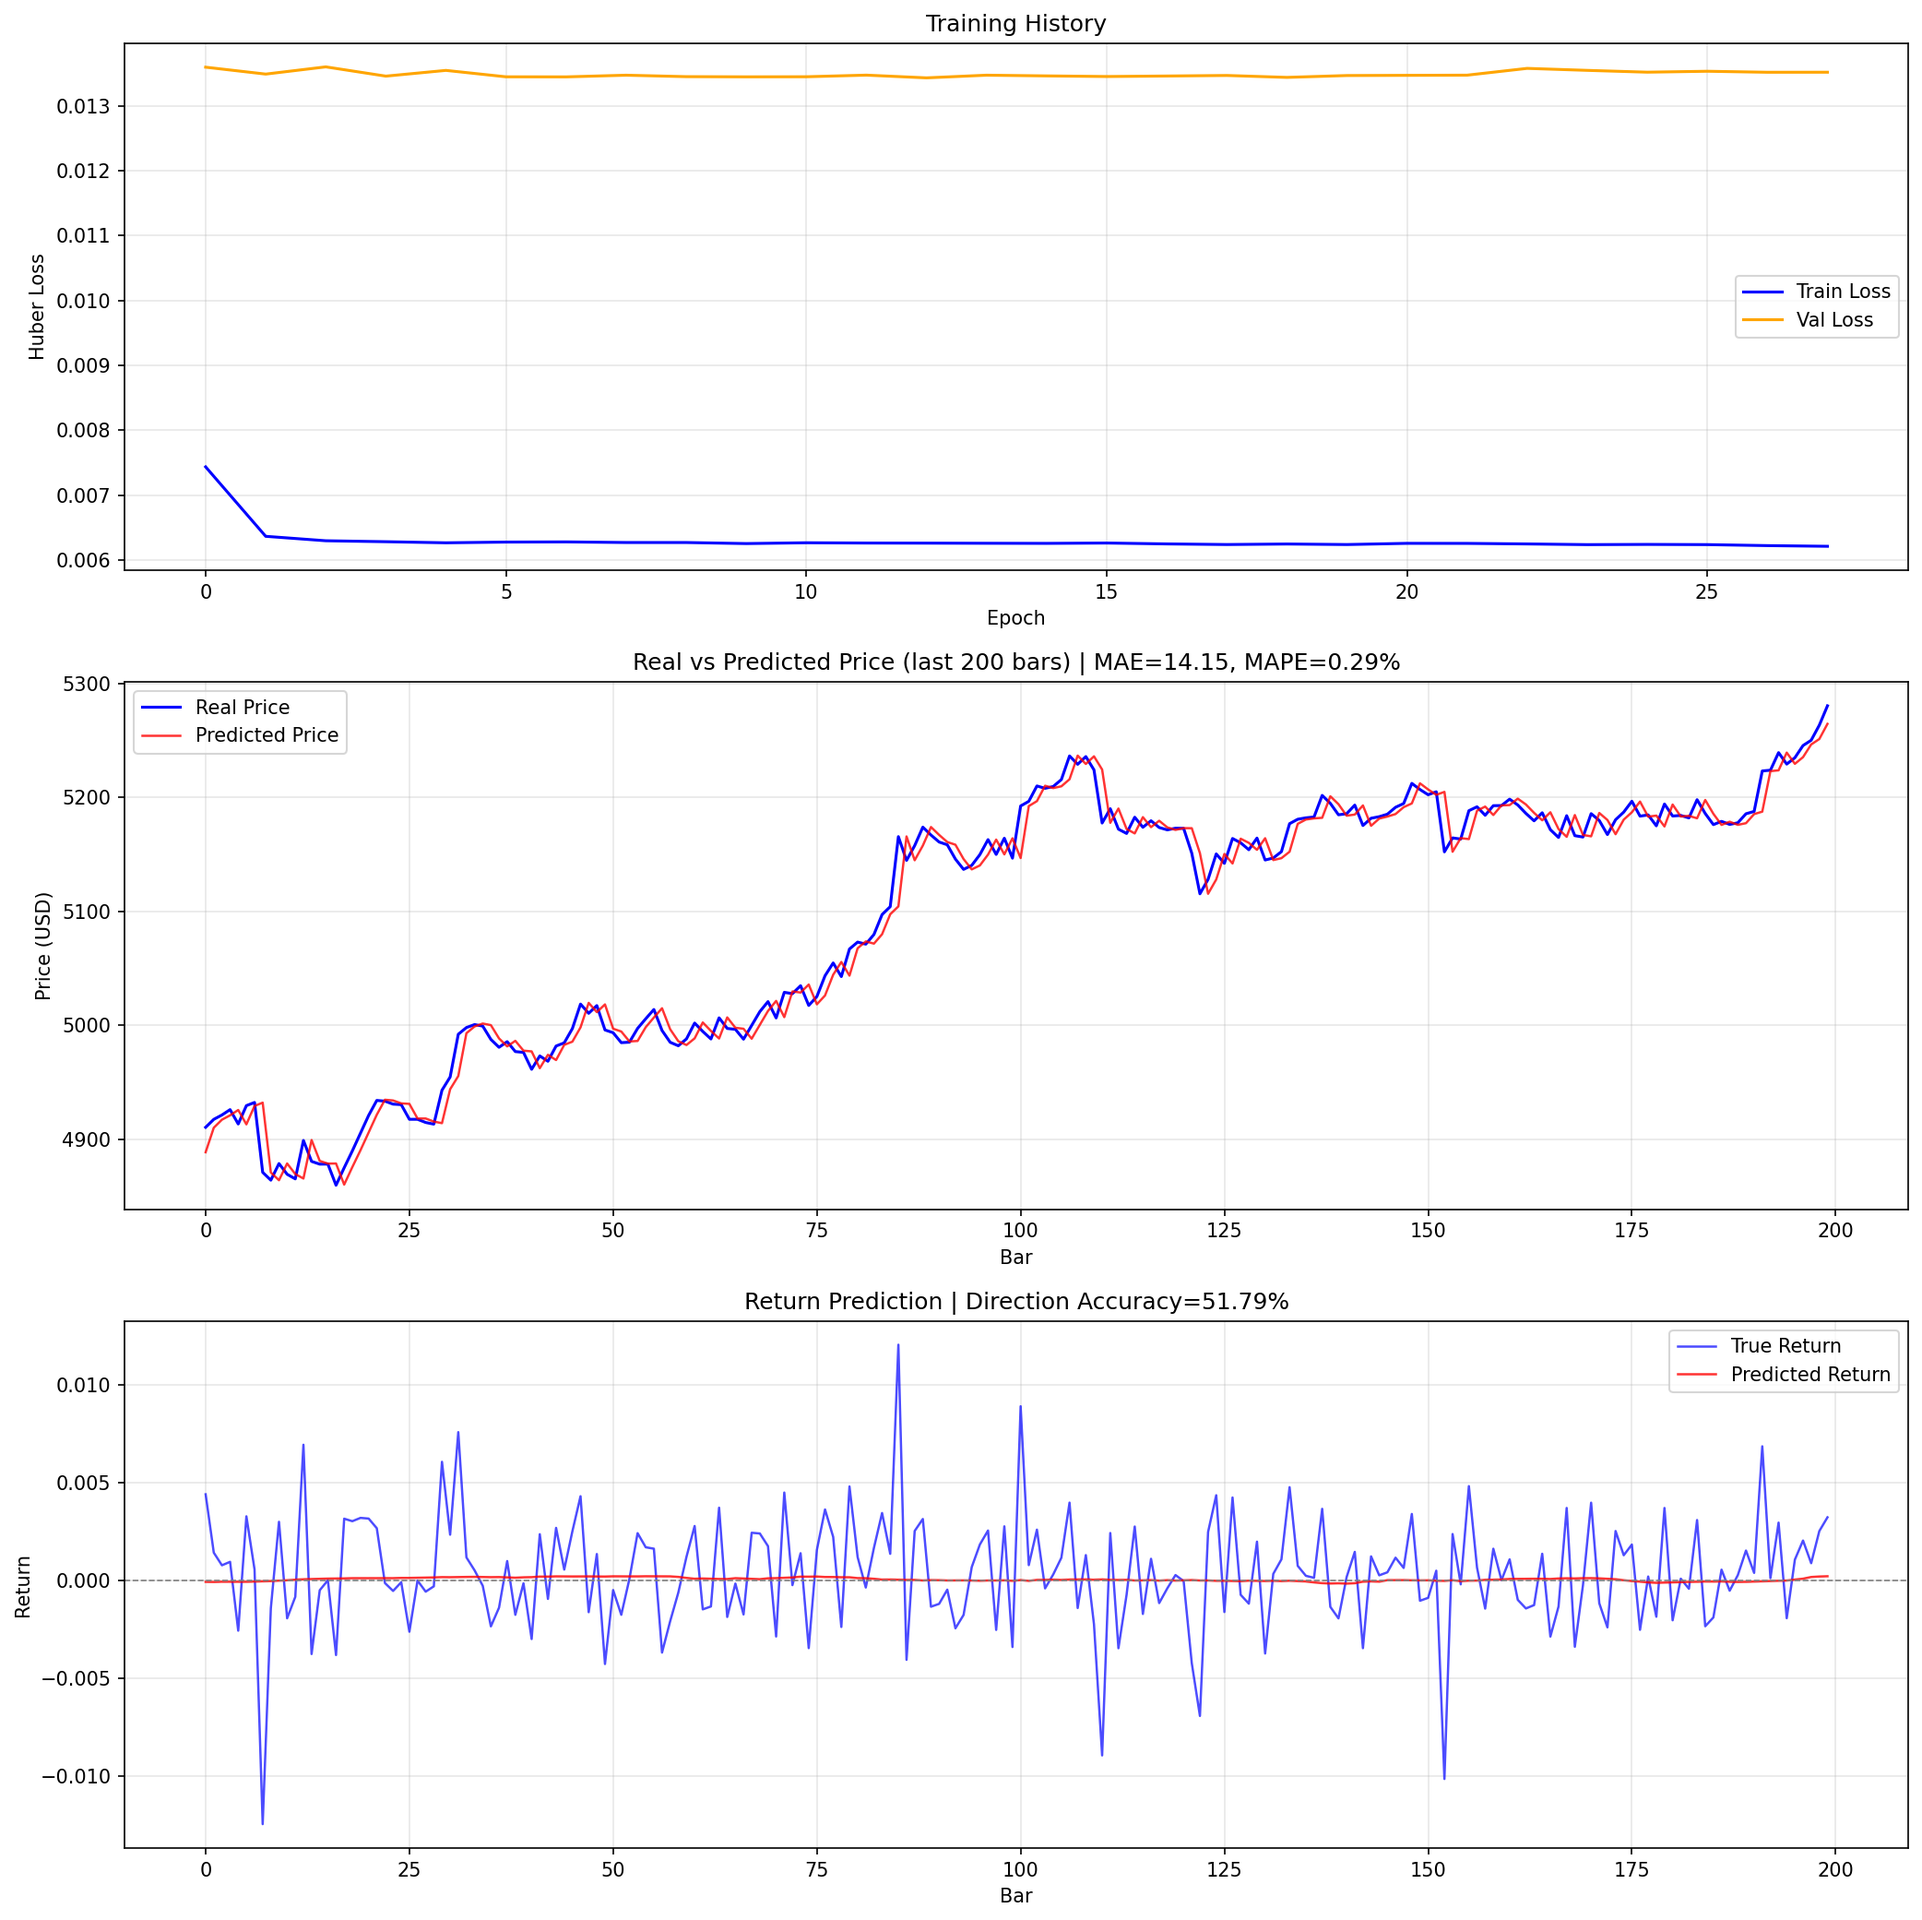
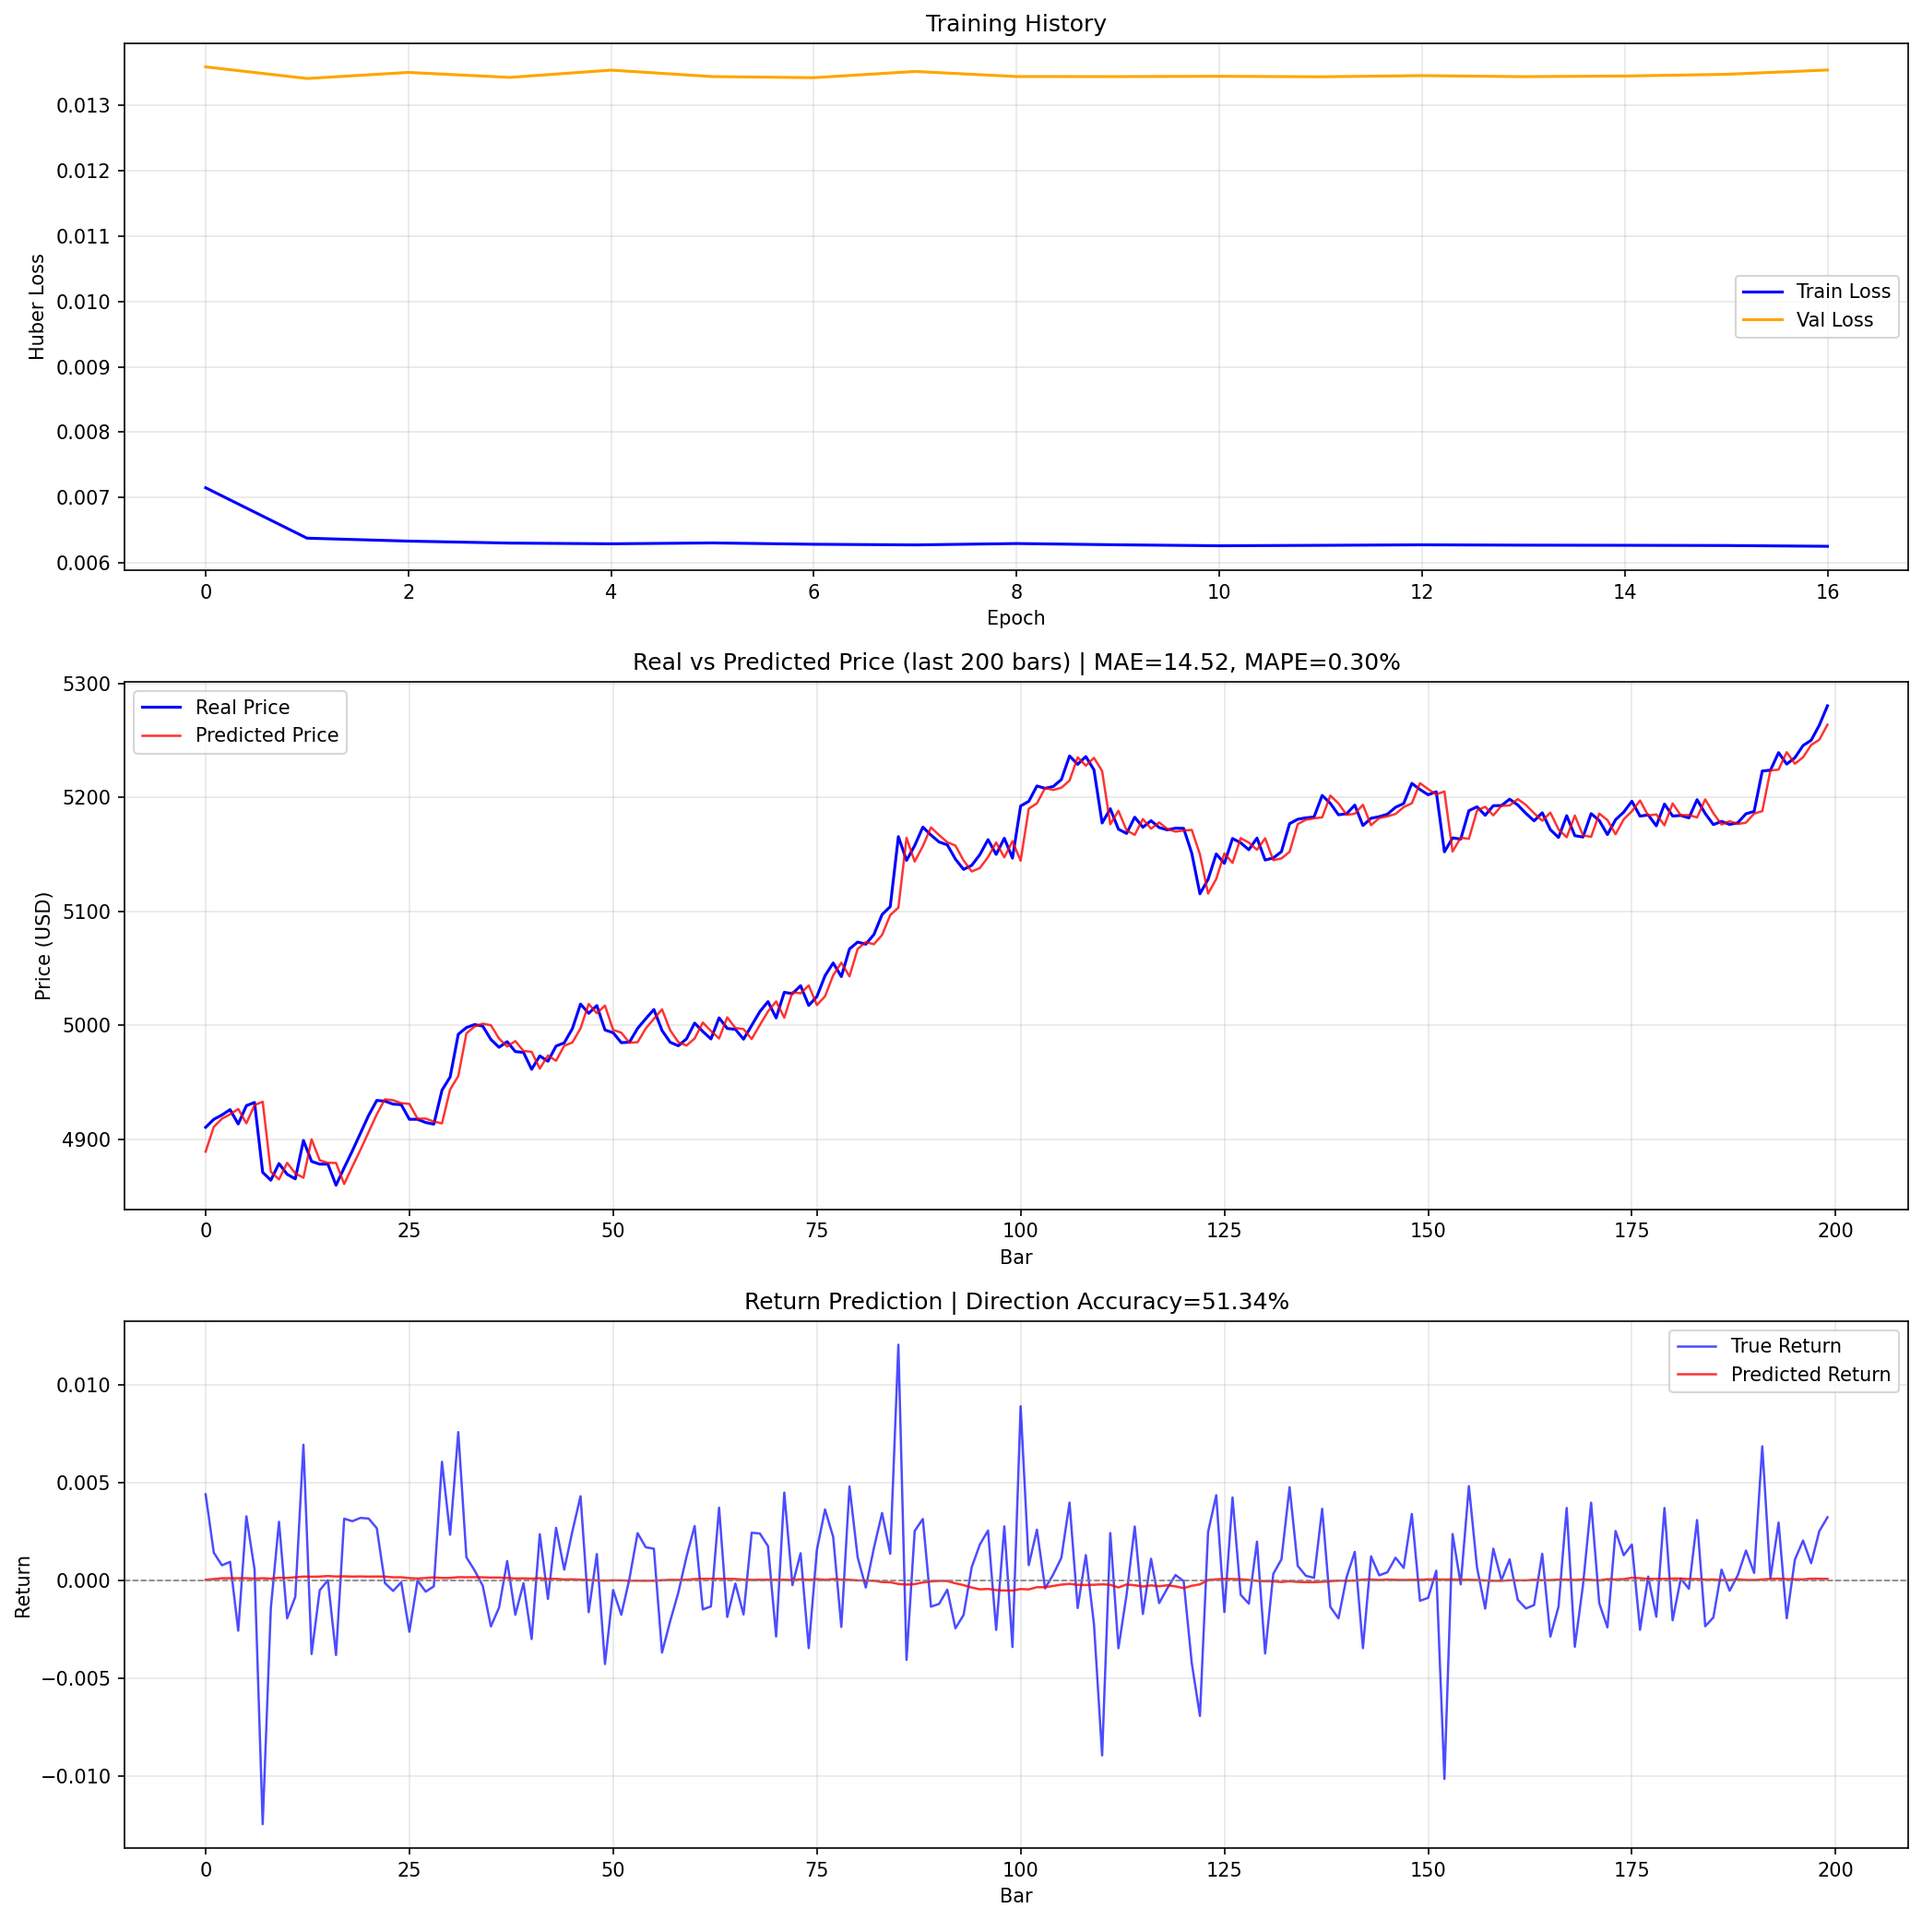
Done suda selesai (kyknya)

diff --git a/LSTM_XAUUSD.py b/LSTM_XAUUSD.py
@@ -30,12 +30,9 @@ df.ta.ema(length=50, append=True)
 df.ta.rsi(length=14, append=True)
 df.ta.atr(length=14, append=True)
 df.ta.macd(append=True)       # tambahan: MACD
-
-# Bollinger Bands - manual append agar nama kolom konsisten
-bb = df.ta.bbands(length=20)
-df['BBL_20_2.0'] = bb.iloc[:, 0] # Lower Band
-df['BBM_20_2.0'] = bb.iloc[:, 1] # Middle Band
-df['BBU_20_2.0'] = bb.iloc[:, 2] # Upper Band
+bb_cols = df.ta.bbands(length=20, append=True)  # tambahan: Bollinger Bands
+bbu_col = bb_cols.filter(like='BBU').columns[0]
+bbl_col = bb_cols.filter(like='BBL').columns[0]
 
 psar = df.ta.psar()
 df['PSAR'] = psar.iloc[:, 0].fillna(psar.iloc[:, 1])
@@ -81,12 +78,12 @@ df = fair_value_gap(df)
 # 1. Return & log return (stasioner, lebih mudah dipelajari LSTM)
 df['Return'] = df['Close'].pct_change()
 df['Log_Return'] = np.log(df['Close'] / df['Close'].shift(1))
-
 # 2. Fitur relatif (normalisasi alami terhadap harga saat ini)
+print("DEBUG - Columns available:", df.columns.tolist())
 df['EMA_diff'] = (df['EMA_20'] - df['EMA_50']) / df['Close']   # dalam % harga
 df['PSAR_diff'] = (df['Close'] - df['PSAR']) / df['Close']      # dalam % harga
-df['BB_width'] = (df['BBU_20_2.0'] - df['BBL_20_2.0']) / df['Close']  # lebar BB relatif
-df['BB_position'] = (df['Close'] - df['BBL_20_2.0']) / (df['BBU_20_2.0'] - df['BBL_20_2.0'] + 1e-9)
+df['BB_width'] = (df[bbu_col] - df[bbl_col]) / df['Close']  # lebar BB relatif
+df['BB_position'] = (df['Close'] - df[bbl_col]) / (df[bbu_col] - df[bbl_col] + 1e-9)
 df['ATR_pct'] = df['ATRr_14'] / df['Close']                     # ATR relatif
 
 # 3. Volatility & range relatif
@@ -316,6 +313,7 @@ axes[2].axhline(y=0, color='gray', linestyle='--', linewidth=0.8)
 axes[2].set_title(f'Return Prediction | Direction Accuracy={acc:.2%}')
 axes[2].set_xlabel('Bar')
 axes[2].set_ylabel('Return')
+
 axes[2].legend()
 axes[2].grid(True, alpha=0.3)
 

diff --git a/Cadangan/LSTM.py b/Cadangan/LSTM.py
@@ -1,9 +1,3 @@
-"""
-=============================================================
-  XAUUSD H1 - LSTM Price Prediction dengan SMC Features
-  Diterjemahkan dari Pine Script SMC ke Python
-=============================================================
-"""
 
 import pandas as pd
 import numpy as np
